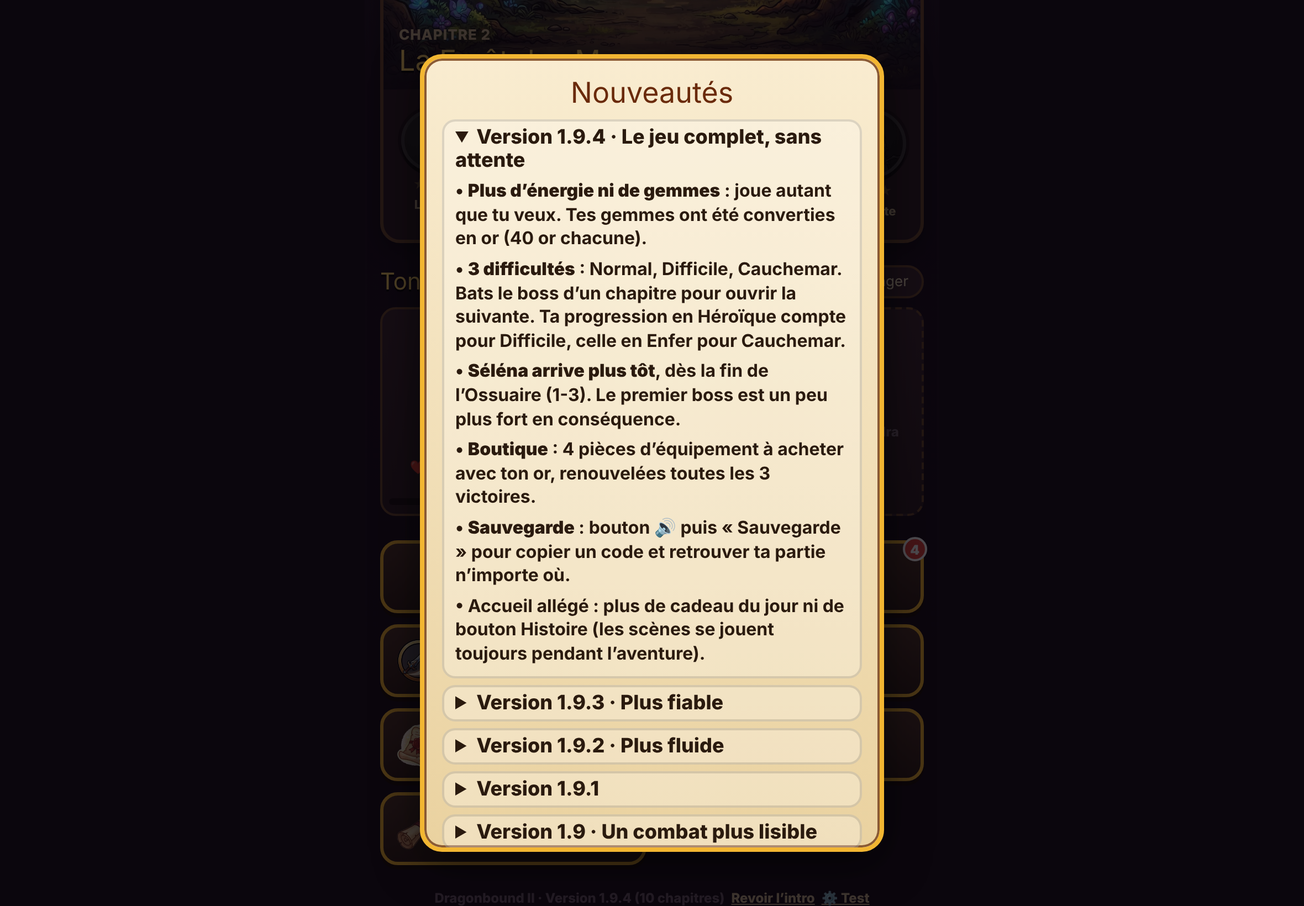
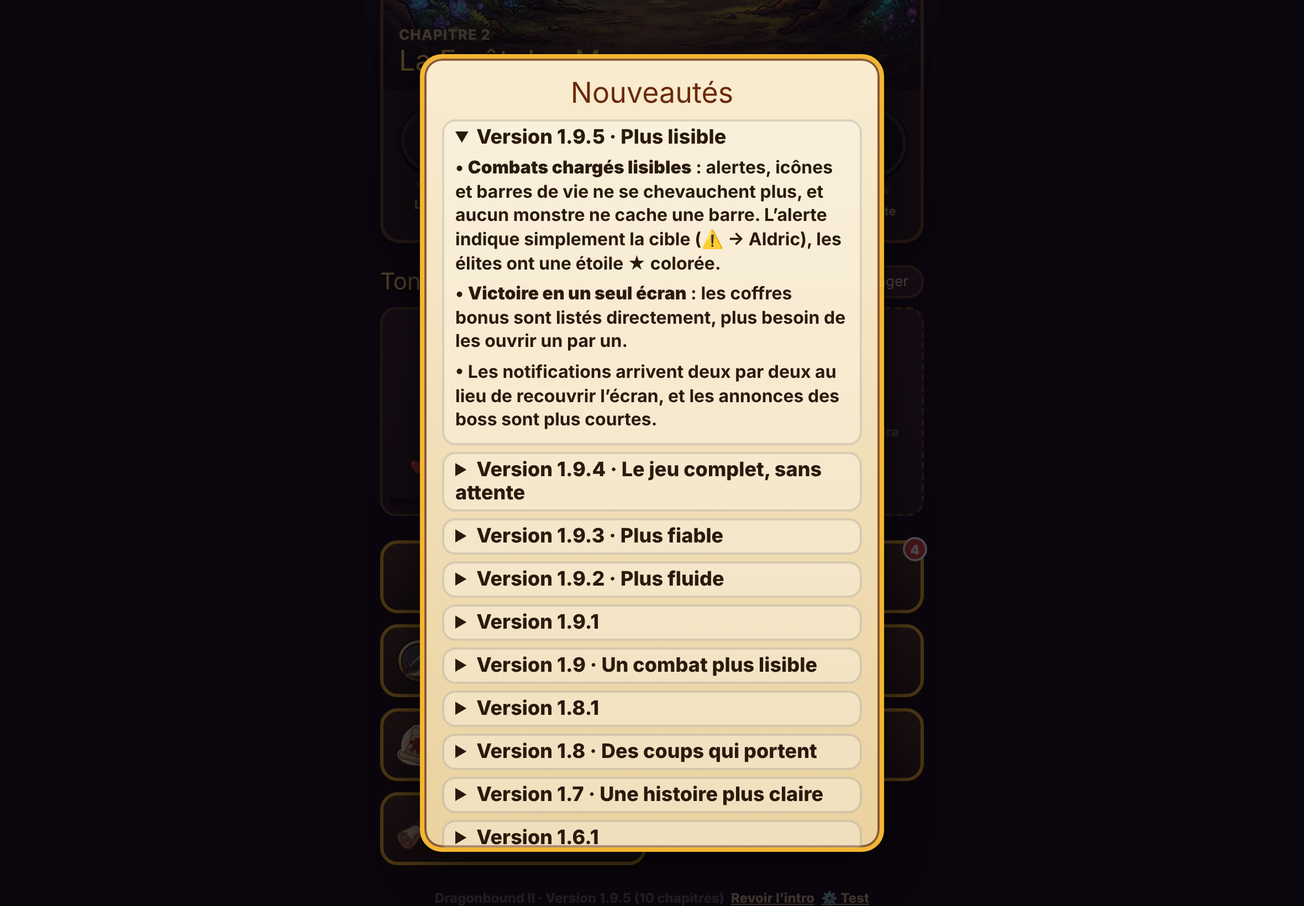
Dragonbound II 1.9.5 : lot 4 Lisibilité (en-têtes d'ennemis sans chevauchement et dessinés au-dessus des sprites, alertes courtes, étoile d'élite, coffres bonus listés sur l'écran de victoire, notifications en file, annonces de boss raccourcies)
Claude-Session: https://claude.ai/code/session_01G2LeSq3BZwgWtQEzaTDVtd

Changed region(s): [[0.3403, 0.1244, 0.6805, 0.9329]]

diff --git a/prototype/dragonbound2/index.html b/prototype/dragonbound2/index.html
@@ -150,6 +150,7 @@ h2 button { font-family: var(--fb); font-size: 13px; background: var(--panel2); 
 .ski { display: block; font-size: 13px; line-height: 1.3; } .ski b { font-size: 15px; } .ski i { font-style: normal; font-size: 11.5px; border-radius: 99px; padding: 0 6px; margin-left: 2px; white-space: nowrap; }
 .skc { background: #10305a; border: 1px solid #6aa8ff; } .skt { background: rgba(255,215,106,.15); border: 1px solid rgba(255,215,106,.6); }
 .skh { display: block; font-size: 12px; color: var(--gold2); margin-top: 2px; }
+.lchips { display: flex; flex-wrap: wrap; gap: 6px; justify-content: center; margin-top: 8px; } .lchip { font-size: 12.5px; padding: 3px 9px; border-radius: 99px; border: 2px solid var(--rc); background: rgba(var(--rg), .18); color: #fff; }
 .stm { font-style: normal; font-size: 11px; color: var(--gold2); margin-left: 2px; }
 #pop .pt { font-size: 10.5px; line-height: 1.2; color: #d8c8b0; }
 .act i img.poti { object-fit: contain; padding: 4px; }
@@ -344,7 +345,7 @@ table.cmp .up { color: #2f7a3a; font-weight: 900; } table.cmp .down { color: #b5
 <script>
 (() => {
 'use strict';
-const VERSION = 'Dragonbound II · Version 1.9.4 (10 chapitres)';
+const VERSION = 'Dragonbound II · Version 1.9.5 (10 chapitres)';
 // 2.0 lot 1: ONE switch for the store build. COMMERCIAL = true removes the test menu and the ×10-×30 speeds for everyone;
 // while it is false, adding ?release to the address previews the commercial build without touching the code.
 const COMMERCIAL = false;
@@ -1258,7 +1259,7 @@ function summon(id, f) { if (livingF().length >= 3) return null; const i = B.foe
   s.slot = BSLOT[[1, 2].find(j => !B.foes.some(x => alive(x) && x.slot === BSLOT[j])) || 1]; s.alpha = 0; if (i >= 0) B.foes[i] = s; else B.foes.push(s); tween(s, { alpha: 1 }, 400); return s; }
 async function hagAct(f) {
   const p = px(f);
-  if (f.phPending && !f.ph) { f.phPending = false; f.ph = { toxic: true }; f.needBurn = 1; B.toxic = Math.round(f.atk * .1); say('Morgane renverse son chaudron : <b>le marais devient toxique</b> (la Défense protège) et sa vapeur <b>la soigne à chaque tour… sauf si elle brûle 🔥</b> !'); setPose(f, 'rage', 1400); SFX.roar(); B.shake = { t0: now(), amp: 6 };
+  if (f.phPending && !f.ph) { f.phPending = false; f.ph = { toxic: true }; f.needBurn = 1; B.toxic = Math.round(f.atk * .1); say('Le marais devient <b>toxique</b> (la Défense protège) et Morgane se soigne chaque tour… <b>sauf si elle brûle 🔥</b>.'); setPose(f, 'rage', 1400); SFX.roar(); B.shake = { t0: now(), amp: 6 };
     sparks(p.x, p.y - p.h * .3, 40, ['#8ad040', '#c8f070', '#3a6a20'], 1.6, .05); await wait(800); if (summon('zombie', f)) say('Un noyé sort de la vase !'); refresh(); await wait(400); return; }
   if (f.ph && f.hp < f.hpMax) { if (f.st.burn) txt(p.x, p.y - p.h - 30, '🔥 Soin bloqué', '#ffb347', true); else { txt(p.x, p.y - p.h - 30, 'La vapeur la soigne… brûle-la !', '#8fe07a', true); await heal(f, f.hpMax * .045); } }
   if (f.charging) { f.charging = false; say('<b>Chaudron empoisonné !</b>'); setPose(f, 'spe', 900); SFX.magic(); B.shake = { t0: now(), amp: 6 }; await wait(250);
@@ -1269,7 +1270,7 @@ async function hagAct(f) {
 }
 async function queenAct(f) {
   const p = px(f);
-  if (f.phPending && !f.ph) { f.phPending = false; f.ph = { winter: true }; say('<b>Hiver éternel !</b> Le froid vide votre mana, et sa Prison de glace enferme <b>votre héros le plus fort</b> : un soin ou une potion le libère.'); setPose(f, 'rage', 1400); SFX.ice(); B.shake = { t0: now(), amp: 6 };
+  if (f.phPending && !f.ph) { f.phPending = false; f.ph = { winter: true }; say('<b>Hiver éternel !</b> Le froid vide votre mana. Sa Prison de glace vise ton héros le plus fort : <b>un soin le libère</b>.'); setPose(f, 'rage', 1400); SFX.ice(); B.shake = { t0: now(), amp: 6 };
     for (let i = 0; i < 4; i++) snowFx(rnd(0, VW), VH * .4); await wait(800); if (summon('spirit', f)) say('Un esprit de glace apparaît !'); refresh(); await wait(400); return; }
   if (f.ph) for (const h of livingH()) { const l = Math.round(h.mpMax * .1); h.mp = Math.max(0, h.mp - l); }
   if (f.charging) { f.charging = false; const t = f.prison; say(`<b>Prison de glace</b> sur ${t.name} !`); setPose(f, 'freeze', 900); SFX.ice(); await wait(250);
@@ -1297,7 +1298,7 @@ async function dragonAct(f) {
 }
 async function witchAct(f) {
   const p = px(f);
-  if (f.phPending && !f.ph) { f.phPending = false; f.ph = { thorns: true, t: 0 }; say('Sylvaine s’entoure de <b>ronces maudites</b> ! Un tour sur deux, elles renvoient <b>la moitié des coups au corps à corps</b> : frappe quand elles sont baissées.');
+  if (f.phPending && !f.ph) { f.phPending = false; f.ph = { thorns: true, t: 0 }; say('Sylvaine se couvre de <b>ronces</b> : un tour sur deux, elles renvoient les coups au corps à corps. <b>Frappe quand elles sont baissées.</b>');
     setPose(f, 'rage', 1400); SFX.roar(); B.shake = { t0: now(), amp: 6 }; sparks(p.x, p.y - p.h * .5, 40, ['#5ac040', '#a8f070', '#2a6a20'], 1.6, .05); await wait(800);
     if (livingF().length < 3) { const i = B.foes.findIndex(x => !alive(x) && !x.boss); const s = mkFoe('wolf', 1, B.lvIdx, true, 3, 0); s.slot = BSLOT[[1, 2].find(j => !B.foes.some(x => alive(x) && x.slot === BSLOT[j])) || 1]; s.alpha = 0;
       if (i >= 0) B.foes[i] = s; else B.foes.push(s); say('Un loup accourt à l’appel de Sylvaine !'); await tween(s, { alpha: 1 }, 400); }
@@ -1312,7 +1313,7 @@ async function witchAct(f) {
 }
 async function vampAct(f) {
   const p = px(f);
-  if (f.phPending && !f.ph) { f.phPending = false; f.ph = { swarm: true }; say('Le Comte appelle sa <b>nuée</b> : <b>tant que ses chauves-souris vivent</b>, il esquive souvent et se soigne à chaque tour. Abats-les d’abord !'); setPose(f, 'rage', 1400); SFX.roar(); B.shake = { t0: now(), amp: 6 };
+  if (f.phPending && !f.ph) { f.phPending = false; f.ph = { swarm: true }; say('Le Comte appelle sa <b>nuée</b> : tant que ses chauves-souris vivent, il esquive et se soigne. <b>Abats-les d’abord !</b>'); setPose(f, 'rage', 1400); SFX.roar(); B.shake = { t0: now(), amp: 6 };
     sparks(p.x, p.y - p.h * .5, 40, ['#c8203a', '#3a0a14', '#ff6a8a'], 1.6, .02); await wait(800); if (summon('vbat', f)) say('Une chauve-souris vampire accourt !'); refresh(); await wait(400); return; }
   if (f.ph) { const bats = livingF().filter(x => x.id === 'vbat'); bats.forEach(x => { x.prio = 1; }); f.ph.swarm = bats.length > 0;
     if (bats.length && f.hp < f.hpMax) { txt(p.x, p.y - p.h - 30, `🦇 ×${bats.length} : il se soigne`, '#ff6a8a', true); await heal(f, f.hpMax * .03 * bats.length); }
@@ -1345,8 +1346,8 @@ async function bossUlt(f) { const [n, m, st, col] = BULT[f.id] || ['Attaque ulti
   refresh(); await wait(500); }
 // ---------- Chapters 7-10 bosses share one behaviour, set by BOSSX ----------
 const BOSSX = {
-  bossLich: { ph: 'Le Roi-Liche brise son sceau : son <b>phylactère</b> le ramènera à la vie avec la moitié de ses PV… <b>sauf s’il brûle 🔥 au moment de tomber</b> !', minion: 'lich', charge: ['Nova de givre', 'all', 1.05, 'freeze'], drain: .08, prep: 'Le Roi-Liche lève son sceptre…' },
-  bossRat: { ph: 'La Reine des Rats appelle <b>la marée</b> : <b>tant qu’un rat vit</b>, elle ne prend presque aucun dégât et se régénère. Tue les rats d’abord !', minion: 'prat', charge: ['Morsure de peste', 'one', 2.0, 'poison'], every: 3, prep: 'La Reine des Rats montre les crocs…' },
+  bossLich: { ph: 'Le Roi-Liche reviendra à la vie avec la moitié de ses PV… <b>sauf s’il brûle 🔥 au moment de tomber</b> !', minion: 'lich', charge: ['Nova de givre', 'all', 1.05, 'freeze'], drain: .08, prep: 'Le Roi-Liche lève son sceptre…' },
+  bossRat: { ph: 'Tant qu’un rat vit, la Reine ne prend presque aucun dégât et se soigne. <b>Tue les rats d’abord !</b>', minion: 'prat', charge: ['Morsure de peste', 'one', 2.0, 'poison'], every: 3, prep: 'La Reine des Rats montre les crocs…' },
   bossVoid: { ph: 'Le Seigneur du Néant se fond dans la faille : <b>un tour sur deux, seule la magie le touche</b> !', minion: 'warlock', charge: ['Rayon du Néant', 'one', 2.2, null], prep: 'Le Seigneur du Néant concentre le vide…' },
   bossVort: { ph: '<b>Une chaîne de Vorthax se brise !</b> Il agit deux fois par tour. À 25 %, la dernière cédera…', minion: 'drake', charge: ['Souffle du Dragon-Roi', 'all', 1.2, 'burn'], double: true, prep: 'Vorthax inspire profondément…' },
 };
@@ -1597,7 +1598,11 @@ function spdUi() { if (!SPDS.includes(S.spd || 1)) S.spd = SPDS.at(-1); $('spdBt
 $('takeBtn').addEventListener('click', () => { if (B && B.auto) $('autoBtn').click(); });
 $('autoBtn').addEventListener('click', () => { if (!B) return; B.auto = !B.auto; autoPref = B.auto; refresh(); if (B.auto && pending) finish(aiHero(pending.h)); });
 $('fleeBtn').addEventListener('click', () => { if (!B) return; modal(`<h3>Quitter le combat ?</h3><p>Tu ne gagnes rien en fuyant.</p><button class="btn red" type="button" data-flee="1">Fuir</button><button class="btn alt" type="button" data-close="1">Continuer</button>`); });
-function toast(h) { const t = document.createElement('div'); t.className = 'toast'; t.innerHTML = h; const n = document.querySelectorAll('.toast').length; t.style.marginTop = `${n * 62}px`; document.body.appendChild(t); setTimeout(() => t.remove(), 2600 + n * 400); }
+// 2.0 lot 4: at most two notifications on screen; the others wait their turn instead of covering the victory screen
+const TQ = []; let tOn = 0;
+function toast(h) { TQ.push(h); tPump(); }
+function tPump() { while (tOn < 2 && TQ.length) { const t = document.createElement('div'); t.className = 'toast'; t.innerHTML = TQ.shift(); const slot = [0, 1].find(k => !document.querySelector(`.toast[data-s="${k}"]`)) || 0; t.dataset.s = slot; t.style.marginTop = `${slot * 62}px`; document.body.appendChild(t); tOn++;
+  setTimeout(() => { t.remove(); tOn--; tPump(); }, TQ.length > 2 ? 1500 : 2300); } }
 
 // ---------- Rendering ----------
 let dust = [];
@@ -1627,7 +1632,8 @@ function draw(t) {
   c.save(); c.translate(VW / 2 + sx, VH / 2 + sy); c.scale(cam.z, cam.z); c.translate(-cam.x, -cam.y);
   if (!reduce) { if (dust.length < 26) dust.push({ x: rnd(0, VW), y: rnd(VH * .2, VH), v: rnd(.1, .35), r: rnd(1, 2.4), p: rnd(0, 6) }); for (const d of dust) { d.y -= d.v; d.x += Math.sin(t / 1200 + d.p) * .2; if (d.y < 0) { d.y = VH; d.x = rnd(0, VW); } c.fillStyle = `rgba(200,210,255,${.25 + .2 * Math.sin(t / 500 + d.p)})`; c.beginPath(); c.arc(d.x, d.y, d.r, 0, 7); c.fill(); } }
   BARS = []; const units = [...B.party, ...B.foes].sort((a, b) => px(a).y - px(b).y), sel = pending && pending.sel;
-  for (const u of units) drawUnit(c, u, t, sel);
+  for (const u of units) drawUnit(c, u, t, sel, 0); // 2.0 lot 4: bodies first, then every header on top, so no sprite hides a health bar
+  for (const u of units) drawUnit(c, u, t, sel, 1);
   drawFx(c, t);
   c.restore();
   const bs = B.foes.find(f => f.boss && alive(f)); if (bs) { const w = Math.min(300, VW - 120), x = (VW - w) / 2, y = $('fWave').getBoundingClientRect().bottom - cv.getBoundingClientRect().top + 24;
@@ -1637,12 +1643,13 @@ function draw(t) {
   drawScreenFx(c);
 }
 function rr(c, x, y, w, h, r) { c.beginPath(); c.moveTo(x + r, y); c.arcTo(x + w, y, x + w, y + h, r); c.arcTo(x + w, y + h, x, y + h, r); c.arcTo(x, y + h, x, y, r); c.arcTo(x, y, x + w, y, r); c.closePath(); }
-function drawUnit(c, u, t, sel) {
+function drawUnit(c, u, t, sel, pass) {
   if (!u.slot) return;
   const p = px(u), dead = !alive(u), n = now();
   const fm = u.fadeMs || 1300; if (dead && u.side === 'f' && u.deadT && n - u.deadT > fm) return;
   const a = u.alpha * (dead ? (u.side === 'h' ? .6 : Math.max(0, 1 - (n - u.deadT) / fm)) : 1); if (a <= 0) return;
   const bob = reduce || dead ? 0 : Math.sin(t / (u.side === 'h' ? 520 : 430) + u.seed), fly = (u.m && u.m.fly && !dead ? p.h * .55 + bob * 6 : 0) + (u.ph && u.ph.fly && !dead ? p.h * .25 + bob * 10 : 0);
+  if (!pass) {
   c.save(); const sw = p.h * (u.boss ? .42 : .3); { const g = c.createRadialGradient(p.x, p.y, 1, p.x, p.y, sw * 1.35); g.addColorStop(0, `rgba(0,0,0,${a * (fly ? .3 : .55)})`); g.addColorStop(1, 'rgba(0,0,0,0)'); c.fillStyle = g; c.beginPath(); c.ellipse(p.x, p.y, sw * 1.35, p.h * .11, 0, 0, 7); c.fill(); }
   c.globalAlpha = a * (fly ? .25 : .6); c.fillStyle = '#000'; c.beginPath(); c.ellipse(p.x, p.y, sw * (fly ? .7 : .85), p.h * .05, 0, 0, 7); c.fill(); c.restore();
   if (B.turn === u && !dead) { c.save(); c.globalCompositeOperation = 'lighter'; c.strokeStyle = `rgba(255,210,90,${.6 + .3 * Math.sin(t / 200)})`; c.lineWidth = 3; c.beginPath(); c.ellipse(p.x, p.y, p.h * .34, p.h * .09, 0, 0, 7); c.stroke(); c.restore(); }
@@ -1658,20 +1665,24 @@ function drawUnit(c, u, t, sel) {
   if (u.ph && u.ph.shield > 0) { c.save(); c.globalAlpha = a * .5; c.strokeStyle = '#f2ead8'; c.lineWidth = 3; c.setLineDash([10, 7]); c.beginPath(); c.ellipse(p.x, p.y - p.h * .5, p.h * .5, p.h * .62, 0, 0, 7); c.stroke(); c.restore(); }
   if (u.side === 'h' && u.lb >= 100 && !dead && !reduce) { c.save(); c.globalCompositeOperation = 'lighter'; c.globalAlpha = .35 + .2 * Math.sin(t / 150); const g = c.createRadialGradient(p.x, p.y - p.h * .5, 4, p.x, p.y - p.h * .5, p.h * .65); g.addColorStop(0, 'rgba(255,190,70,.8)'); g.addColorStop(1, 'rgba(255,150,30,0)'); c.fillStyle = g; c.fillRect(p.x - p.h, p.y - p.h * 1.2, p.h * 2, p.h * 1.4); c.restore(); }
   drawSprite(c, u.sprite, pose, p.x + recoil, p.y - fly, p.h, flash, 1 + sq, 1 + br - sq * .6, u.elite ? u.elite.col : null, u);
-  c.restore();
-  if (dead) return;
+  c.restore(); }
+  if (dead || !pass) return;
   const bw = Math.max(54, Math.min(92, p.h * .55)); let by = p.y - fly - p.h * (u.boss ? .98 : 1.02) - 10;
-  // 1.6: enemy HP bars never stack on top of each other (crowded waves, bosses with guards)
-  if (u.side === 'f' && alive(u)) { for (let k = 0; k < 4; k++) { const hit = BARS.find(b => Math.abs(b.x - p.x) < (b.w + bw) / 2 + 2 && Math.abs(b.y - by) < 20); if (!hit) break; by = hit.y - 21; } BARS.push({ x: p.x, y: by, w: bw }); }
+  // 2.0 lot 4: one compact header per unit (warning, status icons, HP bar) and whole headers never overlap each other
+  const icA = [u.st.poison ? '☠' : '', u.st.burn ? '🔥' : '', u.st.stun ? '💫' : '', u.st.freeze || u.st.ice ? '❄' : '', u.st.taunt ? '🛡' : '', u.st.mark ? '🎯' : '', u.st.fort ? '🪨' : '', u.side === 'f' && u.m.sup ? { heal: '💚', guard: '💠', fort: '🪨', aoe: '⚠' }[u.m.sup] : '', u.st.sh ? '🌑' + u.st.sh : '', u.shield ? '💠' : ''].filter(Boolean);
+  const icS = icA.length > 3 ? icA.slice(0, 2).join('') + '+' + (icA.length - 2) : icA.join('');
+  const tgt = u.intent && u.intent.includes('→') ? u.intent.split('→').pop().trim() : '', warn = u.charging && u.intent ? (u.ultReady ? '⚠ ULTIME' : tgt ? `⚠ → ${tgt}` : '⚠ ' + u.intent) : '';
+  c.font = '14px "Lilita One", sans-serif'; const ww = warn ? c.measureText(warn).width + 14 : 0, hHead = (icS ? 17 : 0) + (warn ? 27 : 0), boxW = Math.max(bw, ww);
+  if (u.side === 'f' && alive(u)) { for (let k = 0; k < 6; k++) { const y1 = by - hHead - 2, y2 = by + 16, hit = BARS.find(b => Math.abs(b.x - p.x) < (b.w + boxW) / 2 + 2 && y1 < b.y2 && y2 > b.y1); if (!hit) break; by = hit.y1 - 18; }
+    BARS.push({ x: p.x, w: boxW, y1: by - hHead - 2, y2: by + 16 }); }
   if (!u.boss) { const bh = u.side === 'f' ? 14 : 8; c.fillStyle = 'rgba(0,0,0,.7)'; rr(c, p.x - bw / 2 - 2, by - 2, bw + 4, bh + 4, 5); c.fill(); c.fillStyle = u.side === 'h' ? '#5cd65c' : u.hp < u.hpMax * .35 ? '#ff8a3c' : '#e0413b'; rr(c, p.x - bw / 2, by, Math.max(2, bw * u.hp / u.hpMax), bh, 3); c.fill();
     if (u.side === 'f' && u.shield > 0) { c.fillStyle = '#bfe0ff'; rr(c, p.x - bw / 2, by + bh - 3, bw * Math.min(1, u.shield / u.hpMax), 3, 1.5); c.fill(); }
     if (u.side === 'f') { c.font = 'bold 12px system-ui'; c.textAlign = 'center'; c.lineWidth = 3; c.strokeStyle = '#000'; c.strokeText(u.hp, p.x, by + 11.5); c.fillStyle = '#fff'; c.fillText(u.hp, p.x, by + 11.5); } }
-  if (u.elite) { c.font = '11px "Lilita One", sans-serif'; c.textAlign = 'center'; c.lineWidth = 3; c.strokeStyle = '#000'; c.fillStyle = `rgb(${u.elite.col})`; const s = `⭐ ${u.elite.n}`; c.strokeText(s, p.x, by - 5); c.fillText(s, p.x, by - 5); }
-  const ic = [u.st.poison ? '☠' : '', u.st.burn ? '🔥' : '', u.st.stun ? '💫' : '', u.st.freeze || u.st.ice ? '❄' : '', u.st.taunt ? '🛡' : '', u.st.mark ? '🎯' : '', u.st.fort ? '🛡' : '', u.side === 'f' && u.m.sup ? { heal: '💚', guard: '💠', fort: '🪨', aoe: '⚠' }[u.m.sup] : '', u.st.sh ? '🌑' + u.st.sh : '', u.shield ? '💠' : ''].join('');
-  if (ic) { c.font = '15px system-ui'; c.textAlign = 'center'; c.fillText(ic, p.x, by - (u.elite ? 19 : 5)); }
-  if (u.charging && u.intent) { const ty = by - (u.elite ? 34 : ic ? 22 : 10) - (u.boss ? 0 : 4), s = '⚠ ' + u.intent; c.font = '15px "Lilita One", sans-serif'; c.textAlign = 'center'; const w = c.measureText(s).width + 14, pul = .75 + .25 * Math.sin(t / 140);
-    const cx0 = Math.max(w / 2 + 4, Math.min(VW - w / 2 - 4, p.x)); c.fillStyle = `rgba(120,20,20,${.85 * pul})`; rr(c, cx0 - w / 2, ty - 19, w, 24, 11); c.fill(); c.strokeStyle = '#ffd76a'; c.lineWidth = 2; c.stroke(); c.fillStyle = '#fff'; c.fillText(s, cx0, ty - 1.5); }
-  if (B.turn === u && !reduce) { const ay = by - 16 + Math.sin(t / 180) * 4; c.fillStyle = '#ffd76a'; c.strokeStyle = '#4a2a06'; c.lineWidth = 2; c.beginPath(); c.moveTo(p.x - 9, ay - 10); c.lineTo(p.x + 9, ay - 10); c.lineTo(p.x, ay); c.closePath(); c.fill(); c.stroke(); }
+  if (u.elite) { c.font = '15px system-ui'; c.textAlign = 'center'; c.lineWidth = 3; c.strokeStyle = '#000'; c.fillStyle = `rgb(${u.elite.col})`; c.strokeText('★', p.x - bw / 2 - 11, by + 12); c.fillText('★', p.x - bw / 2 - 11, by + 12); }
+  if (icS) { c.font = '13px system-ui'; c.textAlign = 'center'; c.fillStyle = '#fff'; c.fillText(icS, p.x, by - 5); }
+  if (warn) { const ty = by - (icS ? 17 : 0) - 8, pul = .75 + .25 * Math.sin(t / 140), cam = B.cam || { x: VW / 2, z: 1 }, z = Math.max(1, cam.z || 1), lo = cam.x - VW / 2 / z, hi = cam.x + VW / 2 / z;
+    const cx0 = Math.max(lo + ww / 2 + 4, Math.min(hi - ww / 2 - 4, p.x)); c.font = '14px "Lilita One", sans-serif'; c.textAlign = 'center'; c.fillStyle = `rgba(120,20,20,${.88 * pul})`; rr(c, cx0 - ww / 2, ty - 17, ww, 22, 10); c.fill(); c.strokeStyle = '#ffd76a'; c.lineWidth = 2; c.stroke(); c.fillStyle = '#fff'; c.fillText(warn, cx0, ty - 1); }
+  if (B.turn === u && !reduce) { const ay = by - hHead - 6 + Math.sin(t / 180) * 4; c.fillStyle = '#ffd76a'; c.strokeStyle = '#4a2a06'; c.lineWidth = 2; c.beginPath(); c.moveTo(p.x - 9, ay - 10); c.lineTo(p.x + 9, ay - 10); c.lineTo(p.x, ay); c.closePath(); c.fill(); c.stroke(); }
 }
 function drawFx(c) {
   const n = now();
@@ -1840,7 +1851,7 @@ async function victory(i, res) {
   if (!train && B.kills.some(f => f.champ) && !B.kos) trc('champNoKo');
   trCheck();
   if (newTier) { SFX.win(); toast(`${DIFF[t + 1].ic} <b>${DIFF[t + 1].n}</b> débloqué pour ce chapitre !`); }
-  await openChests(loot);
+  // 2.0 lot 4: bonus chests no longer open one screen at a time; their items are listed on the victory screen
   if (ups.some(u => u[2])) setTimeout(SFX.levelup, 300);
   const nIt = train ? 0 : 1 + loot.length + (cFirst ? 1 : 0) + (legend ? 1 : 0);
   modal(`<h3>${train ? 'Entraînement réussi' : 'Victoire !'}</h3>${train ? '' : `<p style="text-align:center;font-size:30px;color:#c07a12;letter-spacing:4px">${'★'.repeat(st)}<span style="opacity:.25">${'★'.repeat(3 - st)}</span></p>
@@ -1848,7 +1859,7 @@ async function victory(i, res) {
     ${ups.map(([id, g, up]) => { const H = HEROES[id], s = S.h[id]; return `<div class="row"><img class="f" src="${FP}${H.face}.webp" alt=""><div class="grow"><b>${H.name}</b> +${g} XP ${up ? `<span class="lvup">· Niveau ${s.lvl} !</span>` : ''}<div class="xpb"><i style="width:${s.xp / xpNeed(s.lvl) * 100}%"></i></div></div></div>`; }).join('')}
     <p style="text-align:center;margin-top:10px">+${gold} <img src="${IP}uiGold.webp" style="width:20px;vertical-align:-4px" alt="or"> ${drops.map(k => `· <img class="poti ${ITEMS[k].cls}" src="${IP}uiPotion.webp" style="width:22px;vertical-align:-5px" alt=""> ${ITEMS[k].name}`).join(' ')}${defiGold ? ` · Défi : +${defiGold} or` : ''}${route !== 'safe' && !train ? `<br><small>${ROUTES[route].ic} ${ROUTES[route].n}</small>` : ''}</p>
     ${C ? `<p style="text-align:center;font-size:13px;margin-top:6px">${C.ic} Contrat <b>${C.n}</b> : ${cOk ? `réussi ! +${cGold} or${cFirst ? ' + un objet rare' : ''}` : 'raté.'}</p>` : ''}
-    ${nIt ? `<p style="text-align:center;font-size:13px;margin-top:8px">🎁 ${nIt} objet${nIt > 1 ? 's' : ''} ajouté${nIt > 1 ? 's' : ''} à ton sac · <b>Héros &amp; équipement</b> sur la carte</p>` : ''}
+    ${loot.length ? `<div class="lchips">${loot.map(it => `<span class="lchip" style="${rcss(it)}">🎁 ${it.name}</span>`).join('')}</div>` : ''}${nIt ? `<p style="text-align:center;font-size:13px;margin-top:8px">🎁 ${nIt} objet${nIt > 1 ? 's' : ''} ajouté${nIt > 1 ? 's' : ''} à ton sac · <b>Héros &amp; équipement</b> sur la carte</p>` : ''}
     ${rec ? `<div class="row" style="background:rgba(255,215,106,.5)"><img class="f" src="${FP}${HEROES[rec].face}.webp" alt=""><div class="grow"><b>${HEROES[rec].name} rejoint l’équipe !</b><small>${HEROES[rec].desc}</small></div></div>` : ''}
     <button class="btn" type="button" data-home="1">Continuer</button>${train ? `<button class="btn alt" type="button" data-train="${i}">Rejouer en entraînement</button>` : `<button class="btn alt" type="button" data-play="${i}">Rejouer</button>`}`);
   const endK = CHAPTERS[LEVELS[i].ch].end, q = []; if (first && !t && STORY['v' + i]) q.push('v' + i); if (LEVELS[i].boss && first && !t) q.push(endK); if (rec) q.push(rec);
@@ -2198,6 +2209,7 @@ renderHome();
 function afterIntro() { if (S.selLate) { delete S.selLate; save(); return story('selena', afterIntro); } if (S.pend && S.pend.length) { toast('🎁 Le butin de ton dernier combat t’attend !'); return runPend().then(afterIntro); } if (!S.seen.in) { S.seen.ver = VER; return story('in', helpSheet); } if (S.seen.ver !== VER) { S.seen.ver = VER; save(); return newsSheet(() => { if (loginReady()) loginSheet(); }); } if (loginReady()) loginSheet(); }
 // 1.1: every version's notes live here; the newest is shown once per version, the whole list from the Nouveautés button
 const CHANGELOG = [
+  { v: '1.9.5', t: 'Version 1.9.5 · Plus lisible', d: `<p>• <b>Combats chargés lisibles</b> : alertes, icônes et barres de vie ne se chevauchent plus, et aucun monstre ne cache une barre. L’alerte indique simplement la cible (⚠ → Aldric), les élites ont une étoile ★ colorée.</p><p>• <b>Victoire en un seul écran</b> : les coffres bonus sont listés directement, plus besoin de les ouvrir un par un.</p><p>• Les notifications arrivent deux par deux au lieu de recouvrir l’écran, et les annonces des boss sont plus courtes.</p>` },
   { v: '1.9.4', t: 'Version 1.9.4 · Le jeu complet, sans attente', d: `<p>• <b>Plus d’énergie ni de gemmes</b> : joue autant que tu veux. Tes gemmes ont été converties en or (40 or chacune).</p><p>• <b>3 difficultés</b> : Normal, Difficile, Cauchemar. Bats le boss d’un chapitre pour ouvrir la suivante. Ta progression en Héroïque compte pour Difficile, celle en Enfer pour Cauchemar.</p><p>• <b>Séléna arrive plus tôt</b>, dès la fin de l’Ossuaire (1-3). Le premier boss est un peu plus fort en conséquence.</p><p>• <b>Boutique</b> : 4 pièces d’équipement à acheter avec ton or, renouvelées toutes les 3 victoires.</p><p>• <b>Sauvegarde</b> : bouton 🔊 puis « Sauvegarde » pour copier un code et retrouver ta partie n’importe où.</p><p>• Accueil allégé : plus de cadeau du jour ni de bouton Histoire (les scènes se jouent toujours pendant l’aventure).</p>` },
   { v: '1.9.3', t: 'Version 1.9.3 · Plus fiable', d: `<p>• <b>Ton butin est protégé</b> : si le jeu se ferme pendant le choix d’un coffre ou du trésor d’un boss, il t’attend à la réouverture. Rien n’est perdu, rien n’est doublé.</p>` },
   { v: '1.9.2', t: 'Version 1.9.2 · Plus fluide', d: `<p>• Toutes les images sont préparées dès le chargement du niveau : plus de petit gel la première fois qu’un ultime, un effet ou un boss apparaît.</p>` },

diff --git a/prototype/dragonbound-tests/db211.js b/prototype/dragonbound-tests/db211.js
@@ -8,7 +8,7 @@ const H = ['aldric', 'selena', 'orin', 'lyra', 'nyx'];
 const inv = [{ id: 1, slot: 'w', r: 1, t: 3, st: { atk: 6 }, hero: 'aldric', img: 'wSword', name: 'Épée A' }, { id: 2, slot: 'w', r: 3, t: 8, st: { atk: 20 }, hero: 'aldric', img: 'wSword', name: 'Épée B', pw: 'vampire' },
   { id: 3, slot: 'a', r: 2, t: 5, st: { hp: 40, def: 4 }, img: 'a0armure', name: 'Armure C' }, { id: 4, slot: 'w', r: 2, t: 5, st: { atk: 12 }, hero: 'nyx', img: 'wDaggers', name: 'Dagues N' }];
 const base = o => Object.assign({ v: 2, gold: 100, items: { pot: 3, eth: 1, fea: 1, eli: 0 }, h: Object.fromEntries(H.map(k => [k, { lvl: 6, xp: 0, w: 0, a: 0, eq: k === 'aldric' ? { w: 1 } : {} }])),
-  team: ['aldric', 'selena'], own: { aldric: 1, selena: 1 }, stars: Array(50).fill(0), seen: { in: 1, vid: 1, vid2: 1, n09: 1, n10: 1, ver: '1.9.4' }, mute: true, ch: 1, inv, nid: 10, spd: 3 }, o);
+  team: ['aldric', 'selena'], own: { aldric: 1, selena: 1 }, stars: Array(50).fill(0), seen: { in: 1, vid: 1, vid2: 1, n09: 1, n10: 1, ver: '1.9.5' }, mute: true, ch: 1, inv, nid: 10, spd: 3 }, o);
 srv.listen(0, async () => {
   const url = `http://127.0.0.1:${srv.address().port}/dragonbound2/index.html`, b = await chromium.launch(), errs = [];
   for (const [w, h, tag] of [[390, 844, 'portrait'], [1180, 820, 'paysage']]) {
@@ -50,7 +50,7 @@ srv.listen(0, async () => {
     // news once per version: old 1.0.2 save (n10, no ver)
     await load(base({ seen: { in: 1, vid: 1, vid2: 1, n09: 1, n10: 1 } })); const h3 = await pg.textContent('#modal:not([hidden]) h3').catch(() => ''); await closeAll();
     await pg.reload(); await pg.click('#title'); await pg.waitForTimeout(500); const again = await pg.$('#modal:not([hidden]) h3') ? await pg.textContent('#modal:not([hidden]) h3') : '';
-    s = await S(); ok(`[${tag}] Nouveautés 1.1 montrées une seule fois (sauvegarde 1.0.2)`, h3.startsWith('Version 1.9.4') && !again.includes('Version 1.9.4') && s.seen.ver === '1.9.4' && s.inv.length === 4, `1er : ${h3} · 2e : ${again || 'rien'}`);
+    s = await S(); ok(`[${tag}] Nouveautés 1.1 montrées une seule fois (sauvegarde 1.0.2)`, h3.startsWith('Version 1.9.5') && !again.includes('Version 1.9.5') && s.seen.ver === '1.9.5' && s.inv.length === 4, `1er : ${h3} · 2e : ${again || 'rien'}`);
     await ctx.close();
   }
   ok('Aucune erreur JavaScript', !errs.length, errs.join(' | '));

diff --git a/prototype/dragonbound-tests/db151.js b/prototype/dragonbound-tests/db151.js
@@ -5,7 +5,7 @@ const srv = http.createServer((q, r) => { const p = path.join(ROOT, decodeURICom
 const H = ['aldric', 'selena', 'orin', 'lyra', 'nyx'], res = [], ok = (n, c, x = '') => (c || (process.exitCode = 1), res.push(`${c ? '✅' : '❌'} ${n}${x ? ' — ' + x : ''}`));
 const it = (id, slot, r, st, hero) => ({ id, slot, r, t: 5, st, hero, name: 'x' });
 const inv = [it(1, 'w', 0, { atk: 5 }, 'aldric'), it(2, 'w', 4, { atk: 50 }, 'aldric'), it(3, 'a', 0, { hp: 10, def: 1 }), it(4, 'a', 1, { hp: 15, def: 1 }), it(5, 'a', 3, { hp: 80, def: 8 }), it(6, 'j', 2, { crit: .01 }), it(7, 'a', 4, { hp: 200, def: 20 })];
-const save = { v: 2, gold: 100, gem: 0, items: { pot: 3, eth: 1, fea: 1, eli: 0 }, h: Object.fromEntries(H.map(k => [k, { lvl: 10, xp: 0, w: 0, a: 0, eq: k === 'aldric' ? { w: 2, a: 7 } : {} }])), team: ['aldric'], own: { aldric: 1 }, stars: Array(50).fill(0), seen: { in: 1, vid: 1, vid2: 1, n09: 1, n10: 1, ver: '1.9.4' }, mute: true, ch: 0, inv, nid: 20, spd: 1, m12: 1, tc: { kills: 1200, thermal: 20, embrase: 20, brise: 20 } };
+const save = { v: 2, gold: 100, gem: 0, items: { pot: 3, eth: 1, fea: 1, eli: 0 }, h: Object.fromEntries(H.map(k => [k, { lvl: 10, xp: 0, w: 0, a: 0, eq: k === 'aldric' ? { w: 2, a: 7 } : {} }])), team: ['aldric'], own: { aldric: 1 }, stars: Array(50).fill(0), seen: { in: 1, vid: 1, vid2: 1, n09: 1, n10: 1, ver: '1.9.5' }, mute: true, ch: 0, inv, nid: 20, spd: 1, m12: 1, tc: { kills: 1200, thermal: 20, embrase: 20, brise: 20 } };
 srv.listen(0, async () => { const b = await chromium.launch(), pg = await b.newPage(), errs = []; pg.on('pageerror', e => errs.push(e.message));
   const url = `http://127.0.0.1:${srv.address().port}/dragonbound2/index.html`, S = () => pg.evaluate(k => JSON.parse(localStorage.getItem(k)), KEY);
   await pg.goto(url); await pg.evaluate(([k, s]) => localStorage.setItem(k, JSON.stringify(s)), [KEY, save]); await pg.goto(url); await pg.click('#title'); await pg.waitForTimeout(500);

diff --git a/prototype/dragonbound-tests/db212.js b/prototype/dragonbound-tests/db212.js
@@ -9,7 +9,7 @@ const H = ['aldric', 'selena', 'orin', 'lyra', 'nyx'];
 const inv = [{ id: 1, slot: 'w', r: 2, t: 12, st: { atk: 20 }, hero: 'aldric', img: 'wAxe', name: 'Hache du bourreau' }, { id: 2, slot: 'a', r: 3, t: 12, st: { hp: 90, def: 9 }, img: 'a2armure', name: 'Armure de braise' },
   { id: 3, slot: 'j', r: 2, t: 33, st: { crit: .05 }, img: 'a4amulette', name: 'Pendentif de givre' }, { id: 4, slot: 'w', r: 4, t: 48, st: { mag: 60, crit: .08 }, hero: 'orin', img: 'wLegM', name: 'Bâton du Néant' }, { id: 5, slot: 'a', r: 0, t: 3, st: { hp: 20, def: 1 }, img: 'a0armure', name: 'Armure d’os' }];
 const base = o => Object.assign({ v: 2, gold: 1000, gem: 0, items: { pot: 3, eth: 1, fea: 1, eli: 0 }, h: Object.fromEntries(H.map(k => [k, { lvl: 12, xp: 0, w: 2, a: 2, eq: k === 'aldric' ? { w: 1, a: 2 } : {} }])),
-  team: ['aldric', 'selena', 'orin'], own: { aldric: 1, selena: 1, orin: 1 }, stars: [3, 3, 3, 3, 3, 2].concat(Array(44).fill(0)), seen: { in: 1, vid: 1, vid2: 1, n09: 1, n10: 1, ver: '1.9.4', in2: 1 }, mute: true, ch: 1, inv, nid: 10, spd: 3 }, o);
+  team: ['aldric', 'selena', 'orin'], own: { aldric: 1, selena: 1, orin: 1 }, stars: [3, 3, 3, 3, 3, 2].concat(Array(44).fill(0)), seen: { in: 1, vid: 1, vid2: 1, n09: 1, n10: 1, ver: '1.9.5', in2: 1 }, mute: true, ch: 1, inv, nid: 10, spd: 3 }, o);
 srv.listen(0, async () => {
   const url = `http://127.0.0.1:${srv.address().port}/dragonbound2/index.html`, b = await chromium.launch(), errs = [];
   for (const [w, h, tag] of [[390, 844, 'portrait'], [1180, 820, 'paysage']]) {

diff --git a/prototype/dragonbound-tests/db2check.js b/prototype/dragonbound-tests/db2check.js
@@ -6,7 +6,7 @@ const MIME = { '.html': 'text/html', '.webp': 'image/webp', '.jpg': 'image/jpeg'
 const srv = http.createServer((q, r) => { const p = path.join(ROOT, decodeURIComponent(q.url.split('?')[0])); fs.readFile(p, (e, d) => { if (e) { r.writeHead(404); return r.end(); } r.writeHead(200, { 'content-type': MIME[path.extname(p)] || 'application/octet-stream' }); r.end(d); }); });
 const res = [], ok = (name, cond, extra = '') => (cond || (process.exitCode = 1), res.push(`${cond ? '✅' : '❌'} ${name}${extra ? ' — ' + extra : ''}`));
 const base = over => Object.assign({ v: 2, gold: 100, items: { pot: 3, eth: 1, fea: 1, eli: 0 }, h: Object.fromEntries(['aldric', 'selena', 'orin', 'lyra', 'nyx'].map(k => [k, { lvl: 3, xp: 0, w: 0, a: 0 }])),
-  team: ['aldric'], own: { aldric: 1 }, stars: Array(30).fill(0), seen: { in: 1, vid: 1, vid2: 1, n09: 1, n10: 1, ver: '1.9.4' }, mute: true, ch: 0, inv: [], nid: 1, spd: 3 }, over);
+  team: ['aldric'], own: { aldric: 1 }, stars: Array(30).fill(0), seen: { in: 1, vid: 1, vid2: 1, n09: 1, n10: 1, ver: '1.9.5' }, mute: true, ch: 0, inv: [], nid: 1, spd: 3 }, over);
 srv.listen(0, async () => {
   const url = `http://127.0.0.1:${srv.address().port}/dragonbound2/index.html`, b = await chromium.launch(), errs = [];
   const ctx = await b.newContext({ viewport: { width: 390, height: 844 }, deviceScaleFactor: 2, hasTouch: true });
